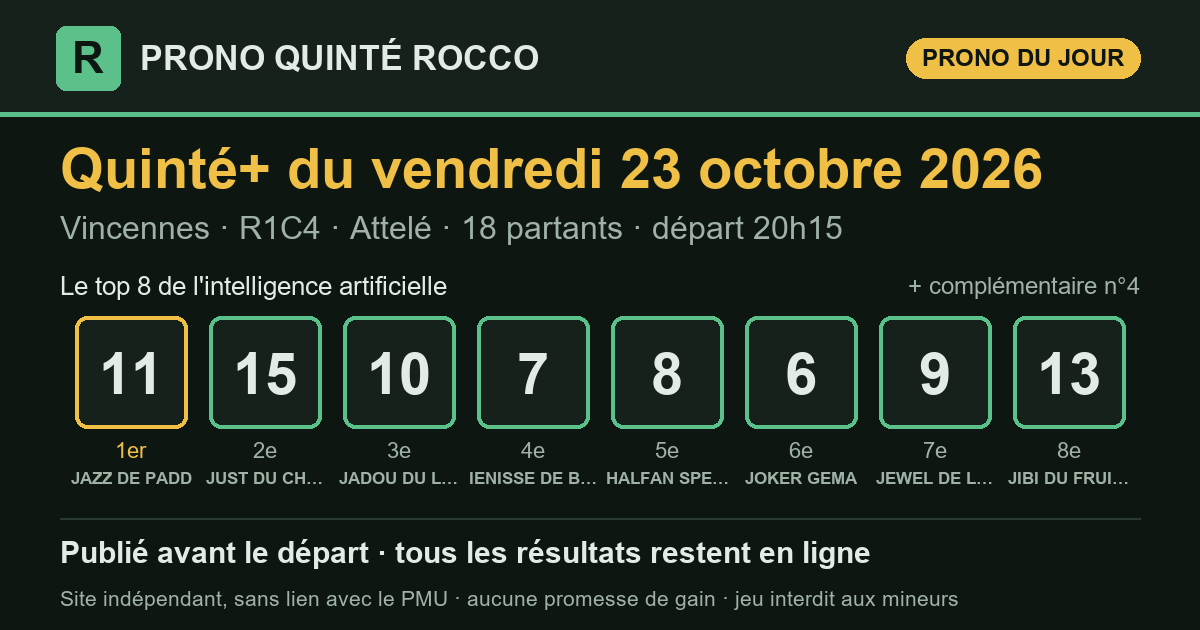
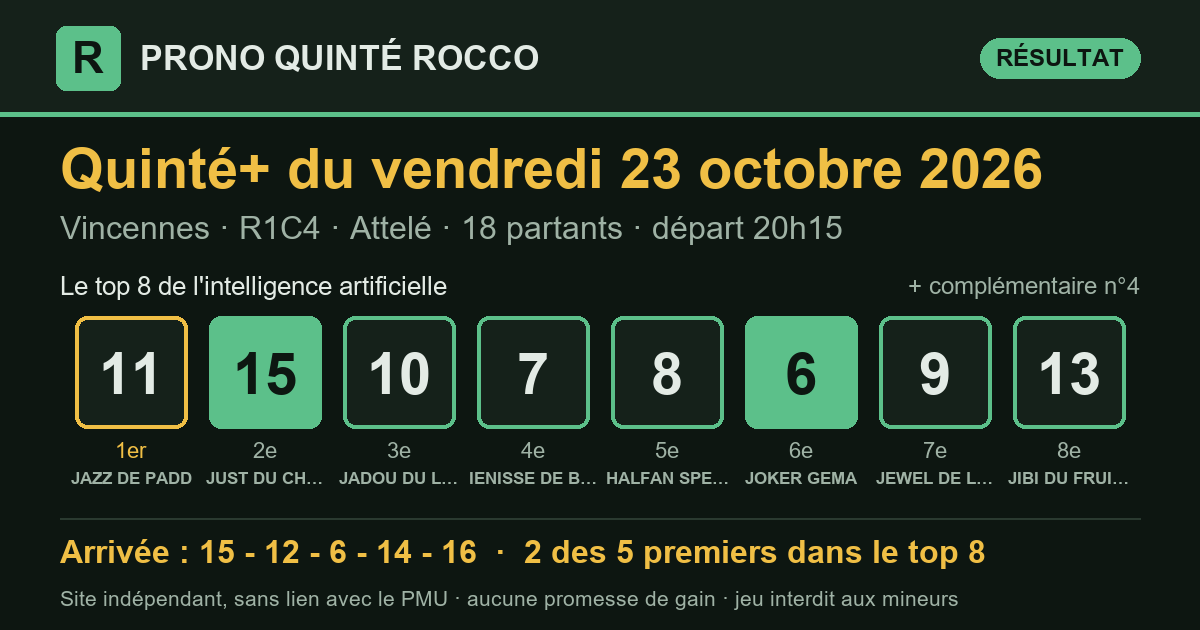
Prono Quinté+ 2026-10-23 Vincennes R1C4 — publié le 23/10/2026 20:31 (heure de Paris)

diff --git a/partants.html b/partants.html
@@ -3,7 +3,7 @@
 <head>
 <meta charset="utf-8">
 <meta name="viewport" content="width=device-width, initial-scale=1, viewport-fit=cover">
-<title>Partants du Quinté+ du vendredi 23 octobre 2026 — Prono Quinté Rocco</title>
+<title>Partants du Quinté+ du samedi 24 octobre 2026 — Prono Quinté Rocco</title>
 <meta name="description" content="Les partants du prochain Quinté+ (programme officiel du PMU), avec le rang du prono IA et les liens vers les pronostics de la presse.">
 <link rel="canonical" href="https://prono-quinte-rocco.fr/partants.html">
 <link rel="stylesheet" href="style.css?v=3c55eb2c">
@@ -13,7 +13,7 @@
 <meta property="og:site_name" content="Prono Quinté Rocco">
 <meta property="og:locale" content="fr_FR">
 <meta property="og:type" content="website">
-<meta property="og:title" content="Partants du Quinté+ du vendredi 23 octobre 2026 — Prono Quinté Rocco">
+<meta property="og:title" content="Partants du Quinté+ du samedi 24 octobre 2026 — Prono Quinté Rocco">
 <meta property="og:description" content="Les partants du prochain Quinté+ (programme officiel du PMU), avec le rang du prono IA et les liens vers les pronostics de la presse.">
 <meta property="og:url" content="https://prono-quinte-rocco.fr/partants.html">
 <meta name="twitter:card" content="summary">
@@ -29,110 +29,95 @@
   <p class="surtitre">Programme officiel du PMU</p>
   <h1>Les partants du prochain Quinté+</h1>
   <div class="fiche-course">
-    <p class="fiche-date">Vendredi 23 octobre 2026</p>
-    <div class="fiche-rc"><span class="pastille" title="Réunion 1">R1</span><span class="pastille" title="Course 4">C4</span><span class="fiche-nom">Prix Orionis</span></div>
-    <p class="meta">Vincennes · Trot_attele · 2 850 m · 18 partants</p>
-    <p class="fiche-depart">Départ <b>20:15</b> <span>heure de Paris</span></p>
+    <p class="fiche-date">Samedi 24 octobre 2026</p>
+    <div class="fiche-rc"><span class="pastille" title="Réunion 1">R1</span><span class="pastille" title="Course 3">C3</span><span class="fiche-nom">Prix de Beaune</span></div>
+    <p class="meta">Compiegne · Obstacle · 3 600 m · 15 partants</p>
+    <p class="fiche-depart">Départ <b>15:15</b> <span>heure de Paris</span></p>
   </div>
   <p class="surtitre">Les pronostics ailleurs sur le web</p>
-  <div class="liens"><a class="lien-ext" href="https://www.turfoo.fr/programmes-courses/261023/reunion1-vincennes/course4-prix-orionis/pronostics-presse/" rel="noopener" target="_blank"><b>Les pronostics de la presse →</b><span>sur Turfoo (site extérieur)</span></a><a class="lien-ext" href="https://www.geny.com/programme/2026-10-23" rel="noopener" target="_blank"><b>Partants et pronostics →</b><span>programme du jour sur Geny (site extérieur)</span></a></div>
+  <div class="liens"><a class="lien-ext" href="https://www.turfoo.fr/programmes-courses/261024/reunion1-compiegne/course3-prix-de-beaune/pronostics-presse/" rel="noopener" target="_blank"><b>Les pronostics de la presse →</b><span>sur Turfoo (site extérieur)</span></a><a class="lien-ext" href="https://www.geny.com/programme/2026-10-24" rel="noopener" target="_blank"><b>Partants et pronostics →</b><span>programme du jour sur Geny (site extérieur)</span></a></div>
   <div class="liste-boite"><table class="liste-partants">
     <thead><tr><th>N°</th><th>Cheval</th><th class="cote"><span class="long">Cote du matin</span><span class="court">Cote</span></th>
     <th class="ia"><span class="long">Prono IA</span><span class="court">IA</span></th></tr></thead>
     <tbody><tr>
   <td><span class="tapis petit">1</span></td>
-  <td><span class="cheval">JARDYLAND</span><span class="sous">L. JUBLOT · L. JUBLOT</span></td>
-  <td class="cote num">50,0</td>
+  <td><span class="cheval">SIR MARVEL</span><span class="sous">L.PHILIPPERON · M.SEROR (S)</span></td>
+  <td class="cote num">—</td>
   <td class="ia">—</td>
 </tr><tr>
   <td><span class="tapis petit">2</span></td>
-  <td><span class="cheval">GITANO JACK</span><span class="sous">F. NIVARD · G.M. BERNIER</span></td>
-  <td class="cote num">37,0</td>
+  <td><span class="cheval">COUTE QUE COUTE</span><span class="sous">J.REVELEY · H.MERIENNE (S)</span></td>
+  <td class="cote num">—</td>
   <td class="ia">—</td>
 </tr><tr>
   <td><span class="tapis petit">3</span></td>
-  <td><span class="cheval">IROISE DE MADKER</span><span class="sous">F. LAGADEUC · CH.A. MALLET</span></td>
-  <td class="cote num">31,0</td>
+  <td><span class="cheval">BELLE GOSSE</span><span class="sous">A.ZULIANI · F.NICOLLE</span></td>
+  <td class="cote num">—</td>
   <td class="ia">—</td>
 </tr><tr>
   <td><span class="tapis petit">4</span></td>
-  <td><span class="cheval">GENERAL DE CONNEE</span><span class="sous">D. THOMAIN · CH.A. MALLET</span></td>
-  <td class="cote num">39,0</td>
-  <td class="ia"><span class="etat place">compl.</span></td>
+  <td><span class="cheval">LOUBA</span><span class="sous">B.LE CLERC · F.BELLEMERE</span></td>
+  <td class="cote num">—</td>
+  <td class="ia">—</td>
 </tr><tr>
   <td><span class="tapis petit">5</span></td>
-  <td><span class="cheval">IN RACE LORRAINE</span><span class="sous">G.A. POU POU · G.A. POU POU</span></td>
-  <td class="cote num">58,0</td>
+  <td><span class="cheval">LADY LADY LAY</span><span class="sous">J.CHARRON · GAB.LEENDERS (S)</span></td>
+  <td class="cote num">—</td>
   <td class="ia">—</td>
 </tr><tr>
   <td><span class="tapis petit">6</span></td>
-  <td><span class="cheval">JOKER GEMA</span><span class="sous">B. ROCHARD · M. SASSIER</span></td>
-  <td class="cote num">15,0</td>
-  <td class="ia"><span class="etat place">6<sup>e</sup></span></td>
+  <td><span class="cheval">LE COLOMBAR</span><span class="sous">J.PHELIPPE · M.SEROR (S)</span></td>
+  <td class="cote num">—</td>
+  <td class="ia">—</td>
 </tr><tr>
   <td><span class="tapis petit">7</span></td>
-  <td><span class="cheval">IENISSE DE BARBRAY</span><span class="sous">E. RAFFIN · CH.A. MALLET</span></td>
-  <td class="cote num">8,7</td>
-  <td class="ia"><span class="etat place">4<sup>e</sup></span></td>
+  <td><span class="cheval">MON PETIT PRINCE</span><span class="sous">T.CHEVILLARD · GAB.LEENDERS (S)</span></td>
+  <td class="cote num">—</td>
+  <td class="ia">—</td>
 </tr><tr>
   <td><span class="tapis petit">8</span></td>
-  <td><span class="cheval">HALFAN SPEED</span><span class="sous">P.PH. PLOQUIN · P. LELIEVRE</span></td>
-  <td class="cote num">12,0</td>
-  <td class="ia"><span class="etat place">5<sup>e</sup></span></td>
+  <td><span class="cheval">LADY ANGE WIN</span><span class="sous">BR.LE CLERC · A.LE CLERC (S)</span></td>
+  <td class="cote num">—</td>
+  <td class="ia">—</td>
 </tr><tr>
   <td><span class="tapis petit">9</span></td>
-  <td><span class="cheval">JEWEL DE LA COTE</span><span class="sous">G. GELORMINI · S. GUARATO</span></td>
-  <td class="cote num">19,0</td>
-  <td class="ia"><span class="etat place">7<sup>e</sup></span></td>
+  <td><span class="cheval">LE COEUR SAUVAGE</span><span class="sous">K.NABET · P&amp;C.PELTIER (S)</span></td>
+  <td class="cote num">—</td>
+  <td class="ia">—</td>
 </tr><tr>
   <td><span class="tapis petit">10</span></td>
-  <td><span class="cheval">JADOU DU LUPIN</span><span class="sous">A. WIELS · J.P. MARMION</span></td>
-  <td class="cote num">7,0</td>
-  <td class="ia"><span class="etat place">3<sup>e</sup></span></td>
+  <td><span class="cheval">FLYING TRIX</span><span class="sous">T.BEAURAIN · L.CARBERRY (S)</span></td>
+  <td class="cote num">—</td>
+  <td class="ia">—</td>
 </tr><tr>
   <td><span class="tapis petit">11</span></td>
-  <td><span class="cheval">JAZZ DE PADD</span><span class="sous">A. ABRIVARD · M. ABRIVARD</span></td>
-  <td class="cote num">5,8</td>
-  <td class="ia"><span class="etat place">1<sup>er</sup></span></td>
+  <td><span class="cheval">JOCASTA</span><span class="sous">T.SERVIER · MME G.MENATO</span></td>
+  <td class="cote num">—</td>
+  <td class="ia">—</td>
 </tr><tr>
   <td><span class="tapis petit">12</span></td>
-  <td><span class="cheval">IN LOVE REGLISSE</span><span class="sous">E. DE JESUS · D. DE JESUS REIS</span></td>
-  <td class="cote num">22,0</td>
+  <td><span class="cheval">LIBRE ARBITRE</span><span class="sous">F.GILES · H.MERIENNE (S)</span></td>
+  <td class="cote num">—</td>
   <td class="ia">—</td>
 </tr><tr>
   <td><span class="tapis petit">13</span></td>
-  <td><span class="cheval">JIBI DU FRUITIER</span><span class="sous">M. MOTTIER · CH.M. BRUNEAU</span></td>
-  <td class="cote num">19,0</td>
-  <td class="ia"><span class="etat place">8<sup>e</sup></span></td>
+  <td><span class="cheval">KING LANE</span><span class="sous">F.BAYLE · M.ROLLAND (S)</span></td>
+  <td class="cote num">—</td>
+  <td class="ia">—</td>
 </tr><tr>
   <td><span class="tapis petit">14</span></td>
-  <td><span class="cheval">IOUPY TOLLEVILLE</span><span class="sous">F. OUVRIE · E. SZIRMAY</span></td>
-  <td class="cote num">33,0</td>
+  <td><span class="cheval">CAPTAIN FLAG</span><span class="sous">N.FERREIRA · R.SCHMIDLIN</span></td>
+  <td class="cote num">—</td>
   <td class="ia">—</td>
 </tr><tr>
   <td><span class="tapis petit">15</span></td>
-  <td><span class="cheval">JUST DU CHATELET</span><span class="sous">D. BONNE · A. RANDON</span></td>
-  <td class="cote num">4,6</td>
-  <td class="ia"><span class="etat place">2<sup>e</sup></span></td>
-</tr><tr>
-  <td><span class="tapis petit">16</span></td>
-  <td><span class="cheval">HINDEN</span><span class="sous">A. BARRIER · P.J. CORDEAU</span></td>
-  <td class="cote num">46,0</td>
-  <td class="ia">—</td>
-</tr><tr>
-  <td><span class="tapis petit">17</span></td>
-  <td><span class="cheval">IVOIRE DAIRPET</span><span class="sous">CEDRIC TERRY · J.F. POPOT</span></td>
-  <td class="cote num">21,0</td>
-  <td class="ia">—</td>
-</tr><tr>
-  <td><span class="tapis petit">18</span></td>
-  <td><span class="cheval">JEZABELLE BIE</span><span class="sous">M. IZZO · M. IZZO</span></td>
-  <td class="cote num">112,0</td>
+  <td><span class="cheval">LERIKA</span><span class="sous">L.BEAUBOIS · D.WINDRIF</span></td>
+  <td class="cote num">—</td>
   <td class="ia">—</td>
 </tr></tbody>
   </table></div>
-  <p class="meta">Le rang du prono IA est celui publié sur ce site. Sous chaque cheval : driver · entraîneur. Partants et cotes : programme
-  officiel du PMU, lu le 23/10 à 14:25 (heure de Paris). NP = non-partant.</p>
+  <p class="meta">Le prono IA de cette course sera publié le matin de la course, avant le départ. Sous chaque cheval : jockey · entraîneur. Partants et cotes : programme
+  officiel du PMU, lu le 23/10 à 20:31 (heure de Paris). NP = non-partant.</p>
 </section>
 </main>
 <footer class="pied">

diff --git a/index.html b/index.html
@@ -16,7 +16,7 @@
 <meta property="og:title" content="Pronostic Quinté+ du vendredi 23 octobre 2026 — Prono Quinté Rocco">
 <meta property="og:description" content="Le pronostic du Quinté+ par intelligence artificielle, publié avant le départ, avec tous les résultats et le rendement réel.">
 <meta property="og:url" content="https://prono-quinte-rocco.fr/">
-<meta property="og:image" content="https://prono-quinte-rocco.fr/partage/2026-10-23.png?v=44aa411b">
+<meta property="og:image" content="https://prono-quinte-rocco.fr/partage/2026-10-23.png?v=053725a0">
 <meta property="og:image:type" content="image/png">
 <meta property="og:image:width" content="1200">
 <meta property="og:image:height" content="630">
@@ -31,15 +31,15 @@
 </header>
 <main>
 <section class="une" aria-labelledby="t-jour">
-  <p class="surtitre">Quinté+ du jour</p>
+  <p class="surtitre">Dernier Quinté+</p>
   <h1 id="t-jour">Le prono du Quinté+, résultats compris</h1>
   <p class="chapo">Chaque matin, une intelligence artificielle classe les partants du
   Quinté+. Le classement est publié avant le départ, puis comparé à l'arrivée
   officielle. Tous les résultats restent en ligne, les bons comme les mauvais.</p>
   <article class="carte-course">
-  <div class="tete"><h2>Vendredi 23 octobre 2026</h2><span class="etat attente">arrivée en attente</span></div>
+  <div class="tete"><h2>Vendredi 23 octobre 2026</h2><span class="etat place">2 des 5 premiers dans le top 8</span></div>
   <p class="meta">Vincennes · <strong>R1C4</strong> · Attelé · 18 partants · lisibilité <span class="note" aria-label="note 2 sur 5"><i class="on"></i><i class="on"></i><i class=""></i><i class=""></i><i class=""></i></span> 2/5</p>
-  <ol class="partants" aria-label="Classement du prono"><li><span class="rang">1<sup>er</sup></span><span class="tapis ">11</span><span class="nom">JAZZ DE PADD</span></li><li><span class="rang">2<sup>e</sup></span><span class="tapis ">15</span><span class="nom">JUST DU CHATELET</span></li><li><span class="rang">3<sup>e</sup></span><span class="tapis ">10</span><span class="nom">JADOU DU LUPIN</span></li><li><span class="rang">4<sup>e</sup></span><span class="tapis ">7</span><span class="nom">IENISSE DE BARBRAY</span></li><li><span class="rang">5<sup>e</sup></span><span class="tapis ">8</span><span class="nom">HALFAN SPEED</span></li><li><span class="rang">6<sup>e</sup></span><span class="tapis ">6</span><span class="nom">JOKER GEMA</span></li><li><span class="rang">7<sup>e</sup></span><span class="tapis ">9</span><span class="nom">JEWEL DE LA COTE</span></li><li><span class="rang">8<sup>e</sup></span><span class="tapis ">13</span><span class="nom">JIBI DU FRUITIER</span></li><li><span class="rang">compl.</span><span class="tapis creux">4</span><span class="nom">GENERAL DE CONNEE</span></li></ol>
+  <ol class="partants" aria-label="Classement du prono"><li><span class="rang">1<sup>er</sup></span><span class="tapis ">11</span><span class="nom">JAZZ DE PADD</span></li><li><span class="rang">2<sup>e</sup></span><span class="tapis plein">15</span><span class="nom">JUST DU CHATELET</span></li><li><span class="rang">3<sup>e</sup></span><span class="tapis ">10</span><span class="nom">JADOU DU LUPIN</span></li><li><span class="rang">4<sup>e</sup></span><span class="tapis ">7</span><span class="nom">IENISSE DE BARBRAY</span></li><li><span class="rang">5<sup>e</sup></span><span class="tapis ">8</span><span class="nom">HALFAN SPEED</span></li><li><span class="rang">6<sup>e</sup></span><span class="tapis plein">6</span><span class="nom">JOKER GEMA</span></li><li><span class="rang">7<sup>e</sup></span><span class="tapis ">9</span><span class="nom">JEWEL DE LA COTE</span></li><li><span class="rang">8<sup>e</sup></span><span class="tapis ">13</span><span class="nom">JIBI DU FRUITIER</span></li><li><span class="rang">compl.</span><span class="tapis creux">4</span><span class="nom">GENERAL DE CONNEE</span></li></ol>
   <div class="pied-carte"><span>Analysé le 23/10 à 14:04 · en ligne le 23/10 à 14:25 · départ à 20:15 (heure de Paris)</span><span><a href="quinte/2026-10-23.html">Détail de la course</a></span></div>
 </article>
   <div class="legende"><span><span class="tapis plein petit">4</span> numéro dans les 5 premiers</span>
@@ -62,7 +62,7 @@
 </section>
 <section class="bilan" aria-labelledby="t-bilan">
   <h2 id="t-bilan">Le bilan depuis le 8 septembre 2026</h2>
-  <div class="tableau chiffres"><div class="case"><span class="gros ">75 %</span><span class="lib">des arrivants trouvés dans le top 8</span><span class="ref">un top 8 tiré au hasard : 51 %</span></div><div class="case"><span class="gros ">86 %</span><span class="lib">des gagnants présents dans le top 8</span><span class="ref"></span></div><div class="case"><span class="gros ">52 %</span><span class="lib">1er du prono placé</span><span class="ref">sur 44 Quintés</span></div><div class="case"><span class="gros perte">0,97 €</span><span class="lib">rendus pour 1 € joué placé sur le 1er</span><span class="ref">rapports officiels PMU</span></div><div class="case"><span class="gros perte">0,51 €</span><span class="lib">rendus pour 1 € joué en Quinté+ combiné top 8</span><span class="ref">56 combinaisons, rapports PMU.fr, sur 44 Quintés</span></div></div>
+  <div class="tableau chiffres"><div class="case"><span class="gros ">74 %</span><span class="lib">des arrivants trouvés dans le top 8</span><span class="ref">un top 8 tiré au hasard : 51 %</span></div><div class="case"><span class="gros ">87 %</span><span class="lib">des gagnants présents dans le top 8</span><span class="ref"></span></div><div class="case"><span class="gros ">52 %</span><span class="lib">1er du prono placé</span><span class="ref">sur 44 Quintés</span></div><div class="case"><span class="gros perte">0,97 €</span><span class="lib">rendus pour 1 € joué placé sur le 1er</span><span class="ref">rapports officiels PMU</span></div><div class="case"><span class="gros perte">0,50 €</span><span class="lib">rendus pour 1 € joué en Quinté+ combiné top 8</span><span class="ref">56 combinaisons, rapports PMU.fr, sur 45 Quintés</span></div></div>
   <p class="avertissement">Moins de 1 € rendu pour 1 € joué : suivre ce prono à la lettre fait <strong>perdre de l'argent</strong> sur cette période. Il sert à analyser une course, pas à promettre un gain.</p>
 </section>
 </main>

diff --git a/quinte/2026-10-23.html b/quinte/2026-10-23.html
@@ -16,7 +16,7 @@
 <meta property="og:title" content="Pronostic Quinté+ du vendredi 23 octobre 2026 à Vincennes — Prono Quinté Rocco">
 <meta property="og:description" content="Prono Quinté+ du vendredi 23 octobre 2026 (Vincennes) : top 8, arrivée officielle et rapports PMU.fr.">
 <meta property="og:url" content="https://prono-quinte-rocco.fr/quinte/2026-10-23.html">
-<meta property="og:image" content="https://prono-quinte-rocco.fr/partage/2026-10-23.png?v=44aa411b">
+<meta property="og:image" content="https://prono-quinte-rocco.fr/partage/2026-10-23.png?v=053725a0">
 <meta property="og:image:type" content="image/png">
 <meta property="og:image:width" content="1200">
 <meta property="og:image:height" content="630">
@@ -35,11 +35,19 @@
   <h1>Pronostic Quinté+ du vendredi 23 octobre 2026</h1>
   <p class="chapo">Vincennes · R1C4 · Attelé · 18 partants</p>
   <article class="carte-course">
-  <div class="tete"><h2>Le prono : top 8 et complémentaire</h2><span class="etat attente">arrivée en attente</span></div>
+  <div class="tete"><h2>Le prono : top 8 et complémentaire</h2><span class="etat place">2 des 5 premiers dans le top 8</span></div>
   <p class="meta">Vincennes · <strong>R1C4</strong> · Attelé · 18 partants · lisibilité <span class="note" aria-label="note 2 sur 5"><i class="on"></i><i class="on"></i><i class=""></i><i class=""></i><i class=""></i></span> 2/5</p>
-  <ol class="partants" aria-label="Classement du prono"><li><span class="rang">1<sup>er</sup></span><span class="tapis ">11</span><span class="nom">JAZZ DE PADD</span></li><li><span class="rang">2<sup>e</sup></span><span class="tapis ">15</span><span class="nom">JUST DU CHATELET</span></li><li><span class="rang">3<sup>e</sup></span><span class="tapis ">10</span><span class="nom">JADOU DU LUPIN</span></li><li><span class="rang">4<sup>e</sup></span><span class="tapis ">7</span><span class="nom">IENISSE DE BARBRAY</span></li><li><span class="rang">5<sup>e</sup></span><span class="tapis ">8</span><span class="nom">HALFAN SPEED</span></li><li><span class="rang">6<sup>e</sup></span><span class="tapis ">6</span><span class="nom">JOKER GEMA</span></li><li><span class="rang">7<sup>e</sup></span><span class="tapis ">9</span><span class="nom">JEWEL DE LA COTE</span></li><li><span class="rang">8<sup>e</sup></span><span class="tapis ">13</span><span class="nom">JIBI DU FRUITIER</span></li><li><span class="rang">compl.</span><span class="tapis creux">4</span><span class="nom">GENERAL DE CONNEE</span></li></ol>
+  <ol class="partants" aria-label="Classement du prono"><li><span class="rang">1<sup>er</sup></span><span class="tapis ">11</span><span class="nom">JAZZ DE PADD</span></li><li><span class="rang">2<sup>e</sup></span><span class="tapis plein">15</span><span class="nom">JUST DU CHATELET</span></li><li><span class="rang">3<sup>e</sup></span><span class="tapis ">10</span><span class="nom">JADOU DU LUPIN</span></li><li><span class="rang">4<sup>e</sup></span><span class="tapis ">7</span><span class="nom">IENISSE DE BARBRAY</span></li><li><span class="rang">5<sup>e</sup></span><span class="tapis ">8</span><span class="nom">HALFAN SPEED</span></li><li><span class="rang">6<sup>e</sup></span><span class="tapis plein">6</span><span class="nom">JOKER GEMA</span></li><li><span class="rang">7<sup>e</sup></span><span class="tapis ">9</span><span class="nom">JEWEL DE LA COTE</span></li><li><span class="rang">8<sup>e</sup></span><span class="tapis ">13</span><span class="nom">JIBI DU FRUITIER</span></li><li><span class="rang">compl.</span><span class="tapis creux">4</span><span class="nom">GENERAL DE CONNEE</span></li></ol>
   <div class="pied-carte"><span>Analysé le 23/10 à 14:04 · en ligne le 23/10 à 14:25 · départ à 20:15 (heure de Paris)</span><span></span></div>
 </article>
+<section class="carte-course" aria-labelledby="t-arr">
+  <div class="tete"><h2 id="t-arr">Arrivée officielle</h2></div>
+  <div class="rangee"><span class="tapis plein" title="1er">15</span><span class="tapis creux" title="2e">12</span><span class="tapis plein" title="3e">6</span><span class="tapis creux" title="4e">14</span><span class="tapis creux" title="5e">16</span></div>
+  <div class="deux">
+    <div><h3>Ce qu'aurait rendu le prono</h3><dl class="kv"><dt>1 € placé sur le 1er (n°11)</dt><dd>rapport manquant</dd><dt>1 € gagnant sur le 1er</dt><dd>rapport manquant</dd><dt>Quinté+ combiné top 8 (mise 112 €)</dt><dd>0,00 €</dd><dt>dont</dt><dd>aucun gain</dd></dl></div>
+    <div><h3>Rapports officiels</h3><dl class="kv"><dt>e-Quinté+ Ordre (2 €)</dt><dd>90 001,00 €</dd><dt>e-Quinté+ Désordre (2 €)</dt><dd>1 464,00 €</dd><dt>e-Bonus 4sur5 (2 €)</dt><dd>44,80 €</dd><dt>e-Bonus 3 (2 €)</dt><dd>17,80 €</dd></dl></div>
+  </div>
+</section>
 </section>
 </main>
 <footer class="pied">

diff --git a/resultats.html b/resultats.html
@@ -39,8 +39,8 @@
     <tbody><tr>
   <td class="c-date"><a href="quinte/2026-10-23.html">23/10</a></td>
   <td class="c-course">Vincennes<br><span class="meta">R1C4 · Attelé</span></td>
-  <td data-label="Top 8 du prono"><div class="rangee"><span class="tapis petit">11</span><span class="tapis petit">15</span><span class="tapis petit">10</span><span class="tapis petit">7</span><span class="tapis petit">8</span><span class="tapis petit">6</span><span class="tapis petit">9</span><span class="tapis petit">13</span></div></td><td data-label="Arrivée"><span class="etat attente">en attente</span></td>
-  <td class="num" data-label="Trouvés">—</td><td data-label="1er du prono"><span class="etat attente">—</span></td><td class="mont" data-label="Quinté+ top 8 (mise 112 €)">—</td>
+  <td data-label="Top 8 du prono"><div class="rangee"><span class="tapis petit">11</span><span class="tapis plein petit">15</span><span class="tapis petit">10</span><span class="tapis petit">7</span><span class="tapis petit">8</span><span class="tapis plein petit">6</span><span class="tapis petit">9</span><span class="tapis petit">13</span></div></td><td data-label="Arrivée"><div class="rangee"><span class="tapis plein petit" title="1er">15</span><span class="tapis creux petit" title="2e">12</span><span class="tapis plein petit" title="3e">6</span><span class="tapis creux petit" title="4e">14</span><span class="tapis creux petit" title="5e">16</span></div></td>
+  <td class="num" data-label="Trouvés">2/5</td><td data-label="1er du prono"><span class="etat non">non placé</span></td><td class="mont perte" data-label="Quinté+ top 8 (mise 112 €)">0,00 €</td>
 </tr><tr>
   <td class="c-date"><a href="quinte/2026-10-22.html">22/10</a></td>
   <td class="c-course">Auteuil<br><span class="meta">R1C1 · Steeple-chase</span></td>
@@ -266,7 +266,7 @@
 </section>
 <section class="bilan" aria-labelledby="t-bilan">
   <h2 id="t-bilan">Le bilan depuis le 8 septembre 2026</h2>
-  <div class="tableau chiffres"><div class="case"><span class="gros ">75 %</span><span class="lib">des arrivants trouvés dans le top 8</span><span class="ref">un top 8 tiré au hasard : 51 %</span></div><div class="case"><span class="gros ">86 %</span><span class="lib">des gagnants présents dans le top 8</span><span class="ref"></span></div><div class="case"><span class="gros ">52 %</span><span class="lib">1er du prono placé</span><span class="ref">sur 44 Quintés</span></div><div class="case"><span class="gros perte">0,97 €</span><span class="lib">rendus pour 1 € joué placé sur le 1er</span><span class="ref">rapports officiels PMU</span></div><div class="case"><span class="gros perte">0,51 €</span><span class="lib">rendus pour 1 € joué en Quinté+ combiné top 8</span><span class="ref">56 combinaisons, rapports PMU.fr, sur 44 Quintés</span></div></div>
+  <div class="tableau chiffres"><div class="case"><span class="gros ">74 %</span><span class="lib">des arrivants trouvés dans le top 8</span><span class="ref">un top 8 tiré au hasard : 51 %</span></div><div class="case"><span class="gros ">87 %</span><span class="lib">des gagnants présents dans le top 8</span><span class="ref"></span></div><div class="case"><span class="gros ">52 %</span><span class="lib">1er du prono placé</span><span class="ref">sur 44 Quintés</span></div><div class="case"><span class="gros perte">0,97 €</span><span class="lib">rendus pour 1 € joué placé sur le 1er</span><span class="ref">rapports officiels PMU</span></div><div class="case"><span class="gros perte">0,50 €</span><span class="lib">rendus pour 1 € joué en Quinté+ combiné top 8</span><span class="ref">56 combinaisons, rapports PMU.fr, sur 45 Quintés</span></div></div>
   <p class="avertissement">Moins de 1 € rendu pour 1 € joué : suivre ce prono à la lettre fait <strong>perdre de l'argent</strong> sur cette période. Il sert à analyser une course, pas à promettre un gain.</p>
 </section>
 </main>
